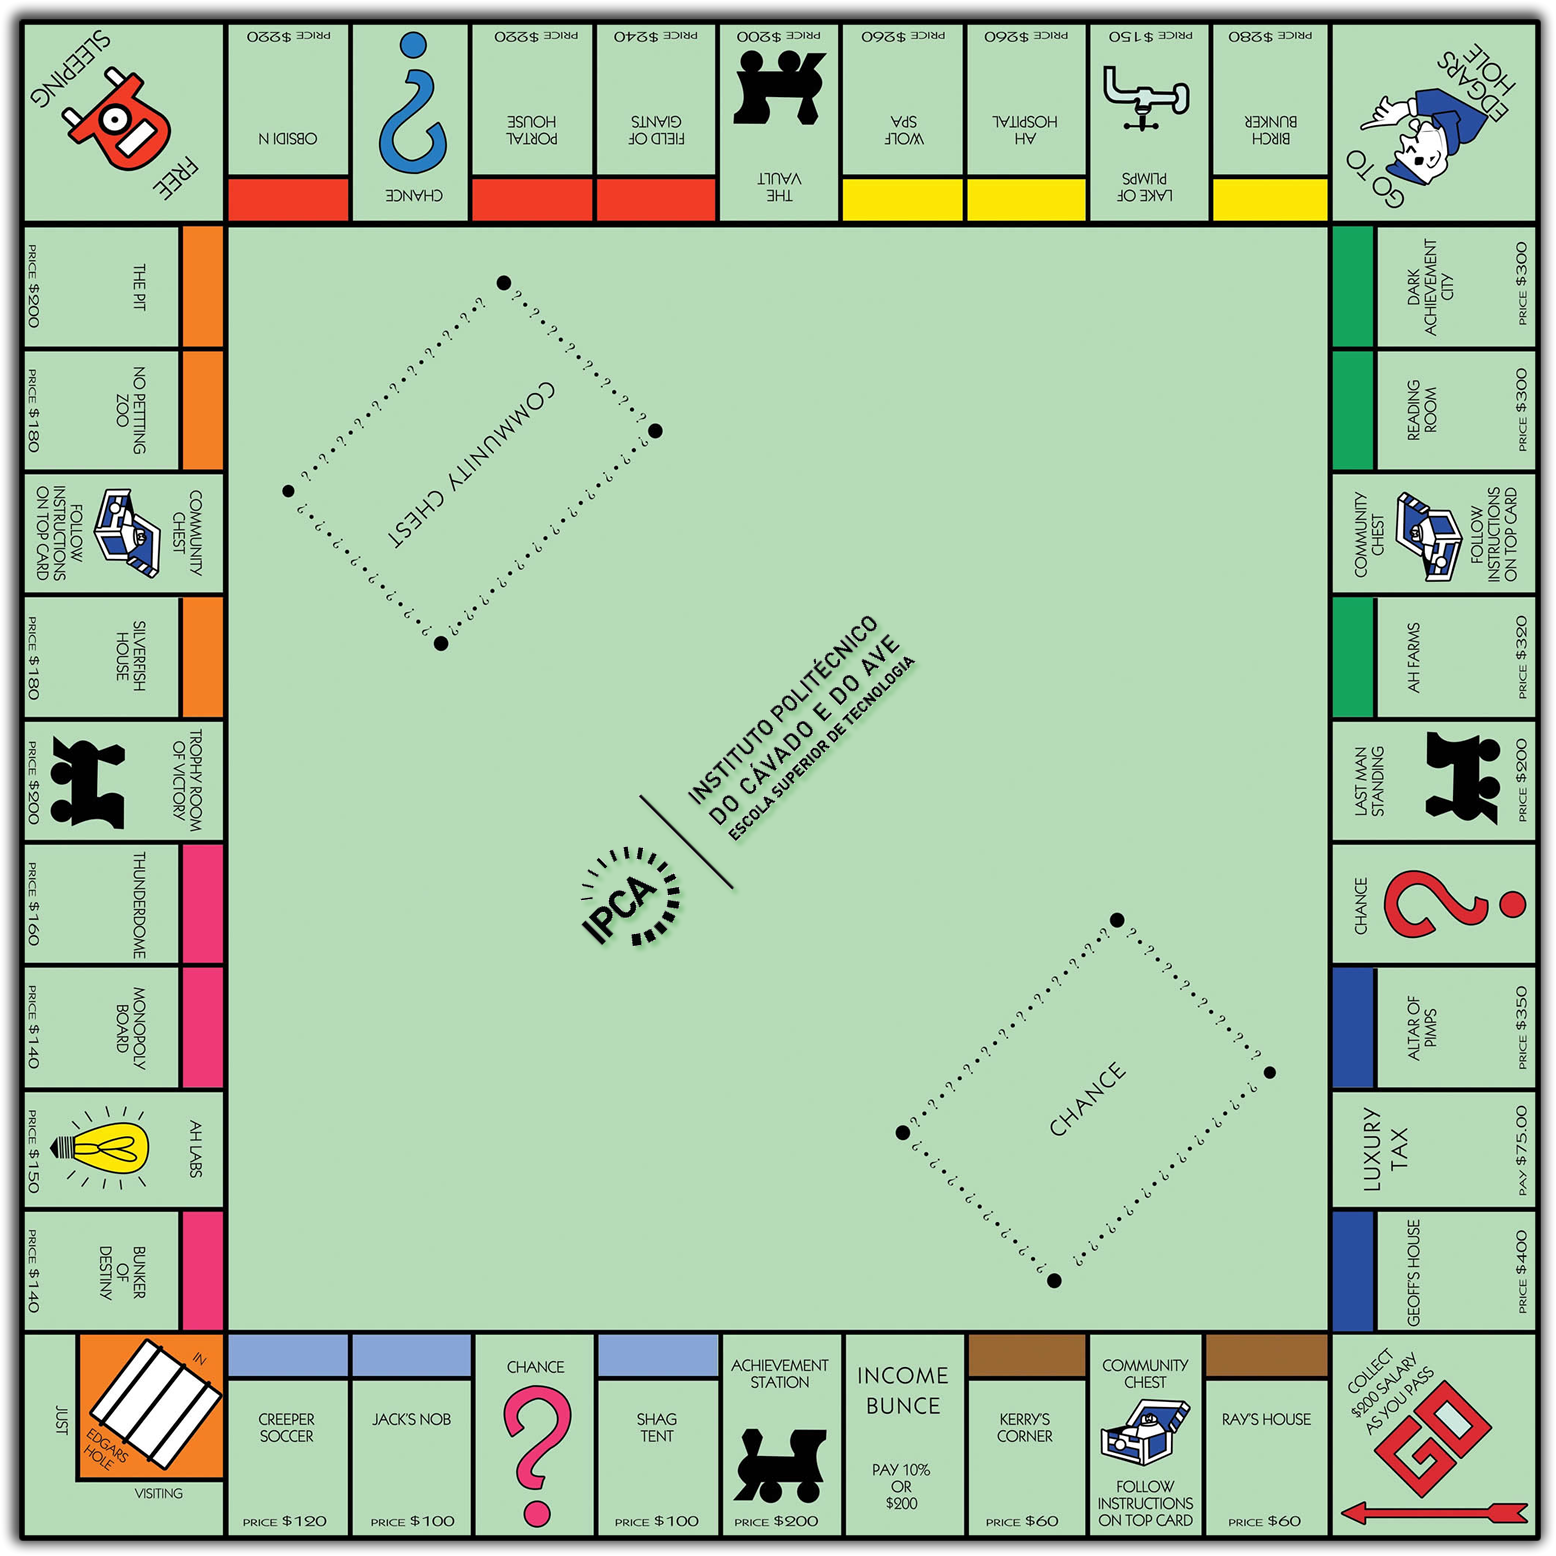
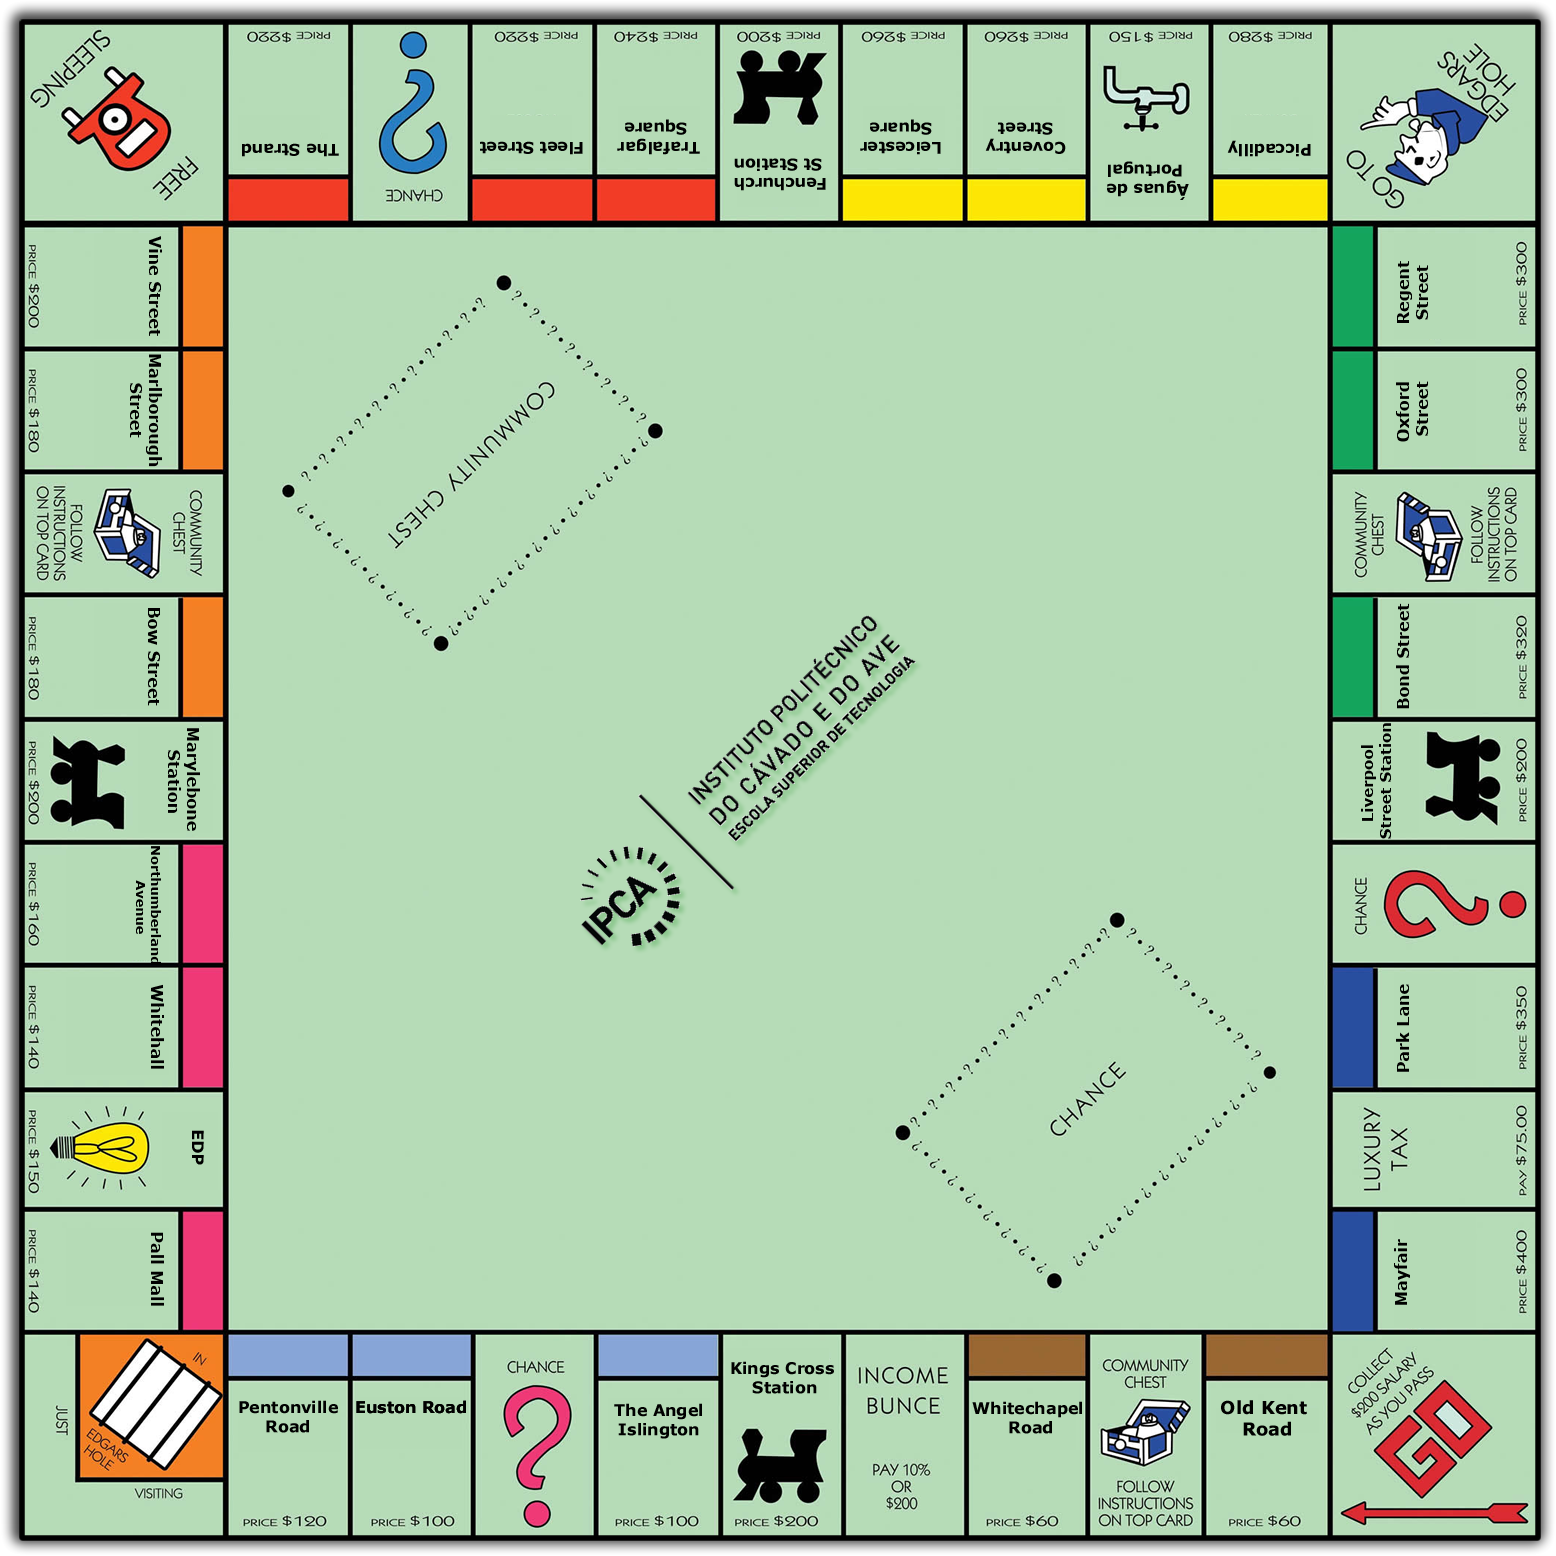
Tabuleiro alterado
Tabuleiro alterado

diff --git a/Monopolio/Tabuleiro/Tabuleiro.cs b/Monopolio/Tabuleiro/Tabuleiro.cs
@@ -175,7 +175,7 @@ namespace Monopolio
                     (int)Posicao.X + 1333 - 122 - 4 - 117 - 4 - 113 - 4,
                     (int)Posicao.Y + 1334,
                     116, 201)));
-            listaCasas.Add(new Imposto("IRS", 10, 200,
+            listaCasas.Add(new Imposto("Income Bounce", 10, 200,
                 new Rectangle(
                     (int)Posicao.X + 1333 - 122 - 4 - 117 - 4 - 113 - 4 - 116 - 6,
                     (int)Posicao.Y + 1334,
@@ -349,7 +349,7 @@ namespace Monopolio
                     (int)Posicao.X + 1333,
                     (int)Posicao.Y + 24 + 198 + 5 + 120 + 5 + 118 + 5 + 118 + 5 + 119 + 5 + 119 + 5 + 118 + 4,
                     203, 120)));
-            listaCasas.Add(new Imposto("IMI", 0, 75,
+            listaCasas.Add(new Imposto("Luxury Tax", 0, 75,
                 new Rectangle(
                     (int)Posicao.X + 1333,
                     (int)Posicao.Y + 24 + 198 + 5 + 120 + 5 + 118 + 5 + 118 + 5 + 119 + 5 + 119 + 5 + 118 + 4 + 120 + 4,
